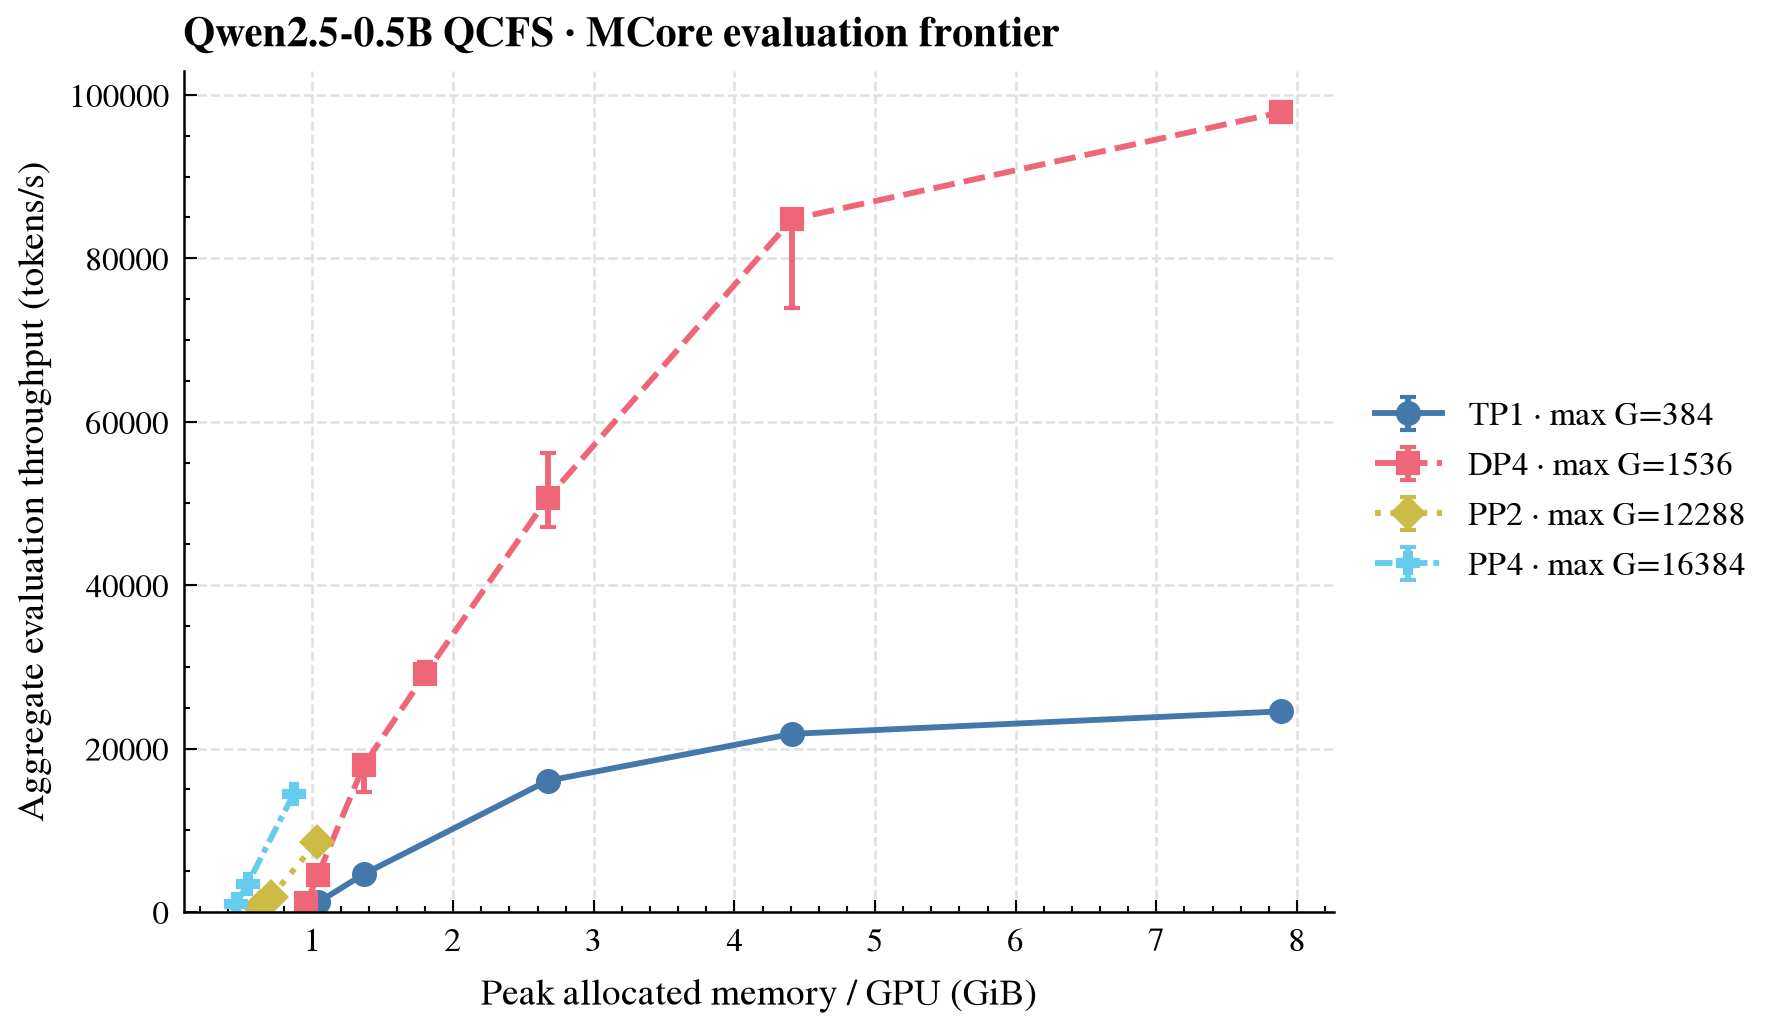
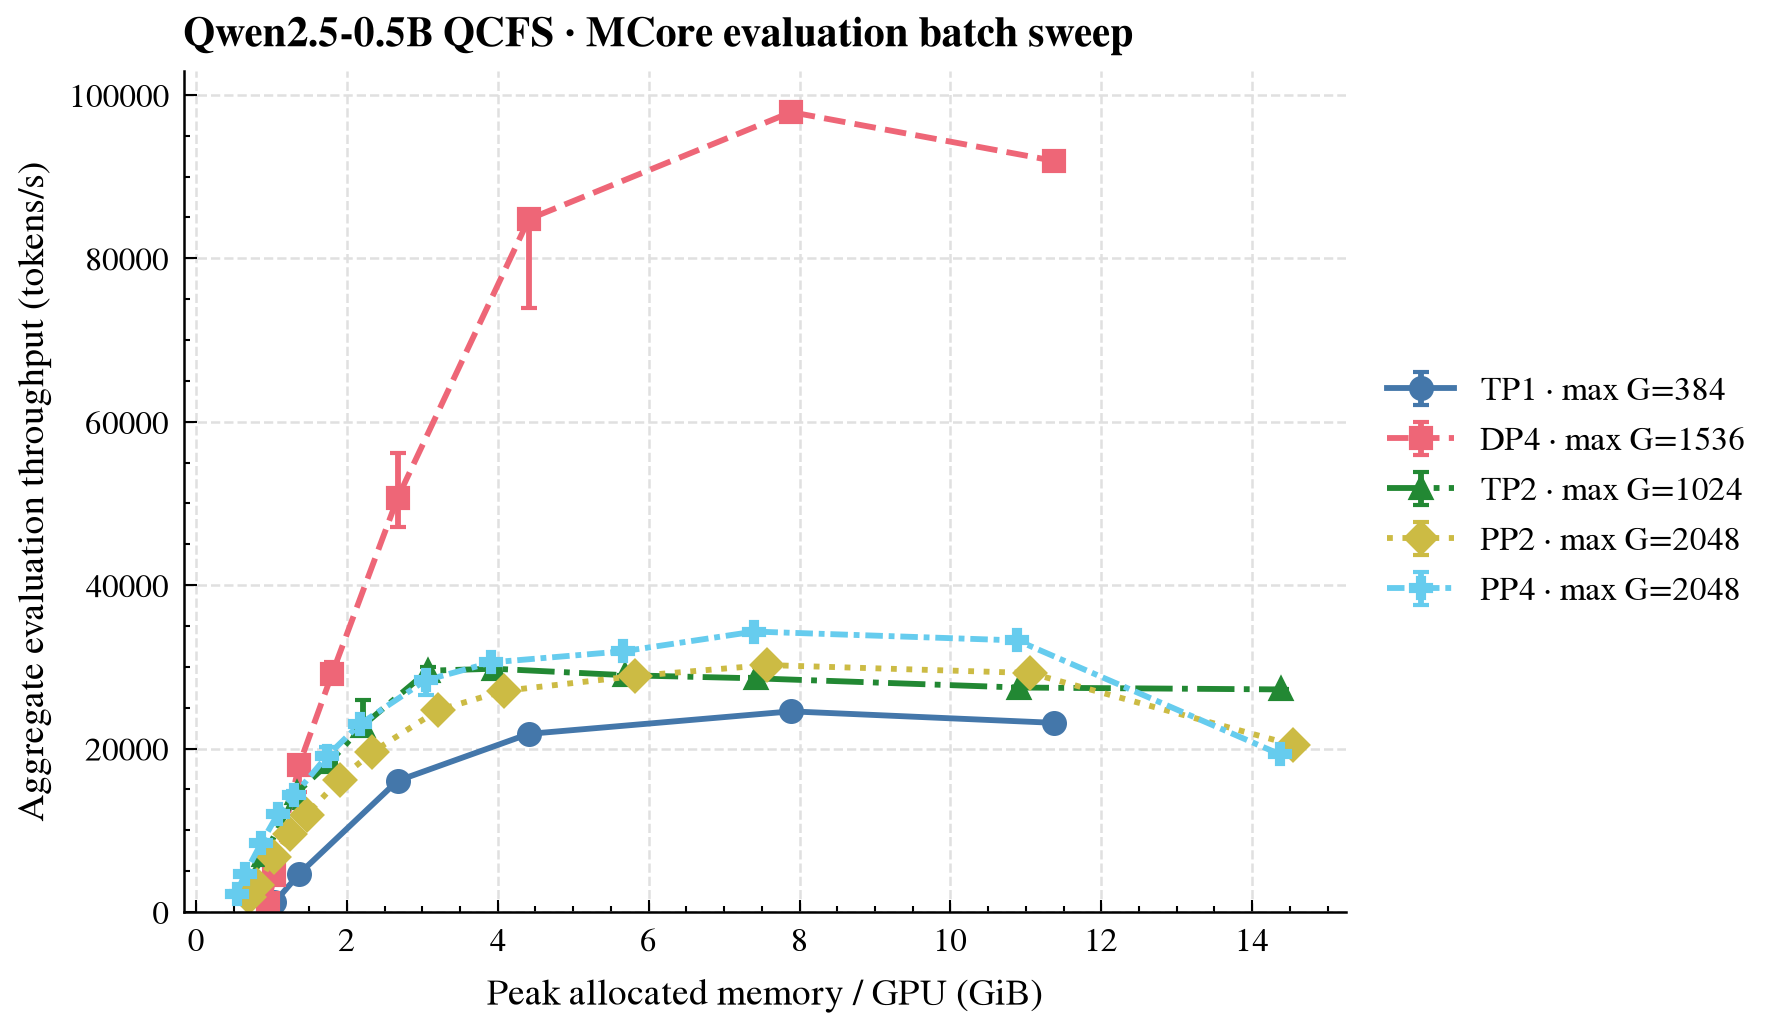
fix(distributed): correct MCore inference benchmarks

diff --git a/benchmark/plot_distributed_inference.py b/benchmark/plot_distributed_inference.py
@@ -18,7 +18,10 @@ VISION_PROBE_NAME = re.compile(
     r"(?P<topology>serial|dp4|fsdp4|tp4|pp4)_"
     r"b(?P<batch>\d+)_probe"
 )
-MCORE_NAME = re.compile(r"mcore_(?P<topology>tp1|dp4|tp2|pp2|pp4)_b(?P<batch>\d+)_r\d+")
+MCORE_NAME = re.compile(
+    r"mcore_(?P<topology>tp1|dp4|tp2|pp2|pp4)_b(?P<batch>\d+)_r\d+"
+    r"(?:_k(?P<microbatches>\d+))?"
+)
 TOPOLOGY_ORDER = ("serial", "dp4", "fsdp4", "tp4", "pp4")
 TOPOLOGY_LABELS = {
     "serial": "Single GPU",
@@ -336,16 +339,23 @@ def _load_mcore(results: Path) -> list[dict]:
         match = MCORE_NAME.fullmatch(log.stem)
         if match is None:
             continue
+        topology = match["topology"]
+        if topology in {"tp2", "pp2", "pp4"} and match["microbatches"] is None:
+            continue
         status_path = Path(f"{log}.status")
         exit_status = int(status_path.read_text().strip())
         text = log.read_text(encoding="utf-8")
         metrics = _last_json(log) if exit_status == 0 else None
-        groups[(match["topology"], int(match["batch"]))].append(
-            (exit_status, metrics, text)
-        )
+        groups[
+            (
+                topology,
+                int(match["batch"]),
+                int(match["microbatches"] or 1),
+            )
+        ].append((exit_status, metrics, text))
 
     rows = []
-    for (topology, batch_size), runs in sorted(groups.items()):
+    for (topology, batch_size, pipeline_microbatches), runs in sorted(groups.items()):
         completed = [metrics for exit_status, metrics, _ in runs if exit_status == 0]
         if len(completed) == 3:
             status = "completed"
@@ -363,12 +373,6 @@ def _load_mcore(results: Path) -> list[dict]:
         data_parallel_size = 4 if topology == "dp4" else 1
         tensor_parallel_size = 2 if topology == "tp2" else 1
         pipeline_parallel_size = {"pp2": 2, "pp4": 4}.get(topology, 1)
-        if completed:
-            pipeline_microbatches = int(completed[0]["pipeline_microbatches"])
-        elif topology in {"pp2", "pp4"} and batch_size > 16:
-            pipeline_microbatches = batch_size // 16
-        else:
-            pipeline_microbatches = 1
         row = {
             "workload": "llm_evaluation",
             "backend": "mcore",
@@ -394,7 +398,12 @@ def _load_mcore(results: Path) -> list[dict]:
                     if completed
                     else "capacity candidate; "
                 )
-                + f"MCore micro batch {batch_size // pipeline_microbatches}"
+                + f"MCore micro batch {batch_size // pipeline_microbatches}; "
+                + (
+                    "one warmup"
+                    if topology == "pp4" and batch_size == 3072
+                    else "five warmups"
+                )
             ),
         }
         if completed:
@@ -535,6 +544,7 @@ def _plot_llm(
     x_label: str,
     y_label: str,
     filename: str,
+    pareto: bool = True,
 ) -> None:
     import matplotlib.pyplot as plt
     import scienceplots  # noqa: F401
@@ -562,7 +572,11 @@ def _plot_llm(
             ]
             if not measured:
                 continue
-            points = _pareto_frontier(measured)
+            points = (
+                _pareto_frontier(measured)
+                if pareto
+                else sorted(measured, key=lambda row: row["peak_memory_gib_median"])
+            )
             color = f"C{index}"
             axis.errorbar(
                 [point["peak_memory_gib_median"] for point in points],
@@ -640,10 +654,11 @@ def main() -> None:
         mcore_rows,
         args.output,
         ("tp1", "dp4", "tp2", "pp2", "pp4"),
-        "Qwen2.5-0.5B QCFS · MCore evaluation frontier",
+        "Qwen2.5-0.5B QCFS · MCore evaluation batch sweep",
         "Peak allocated memory / GPU (GiB)",
         "Aggregate evaluation throughput (tokens/s)",
         "mcore-inference.png",
+        pareto=False,
     )
 
 

diff --git a/test/activation_based/test_distributed_checkpoint.py b/test/activation_based/test_distributed_checkpoint.py
@@ -26,6 +26,36 @@ def test_checkpoint_keeps_calibration_but_not_ephemeral_membrane():
     )
 
 
+def test_qwen_input_scale_checkpoint_sharding(monkeypatch):
+    offsets = []
+    groups = []
+
+    def make_sharded_tensors(state, prefix, axis_map, sharded_offsets, **kwargs):
+        offsets.append(sharded_offsets)
+        groups.append(kwargs)
+        return {next(iter(state)): object()}
+
+    utils = ModuleType("megatron.core.transformer.utils")
+    utils.make_sharded_tensors_for_checkpoint = make_sharded_tensors
+    monkeypatch.setitem(sys.modules, "megatron.core.transformer.utils", utils)
+    module = _InputQCFSRMSNorm(
+        config=object(),
+        hidden_size=3,
+        eps=1e-6,
+        scale=torch.ones(3),
+        time_steps=2,
+        use_snn_memopt=False,
+    )
+
+    layer_offsets = ((0, 0, 24),)
+    module.sharded_state_dict(
+        sharded_offsets=layer_offsets, metadata={"dp_cp_group": object()}
+    )
+
+    assert offsets == [layer_offsets, ()]
+    assert groups == [{}, {}]
+
+
 def test_checkpoint_file_path_notifies_every_rank(tmp_path, monkeypatch):
     core = ModuleType("megatron.core")
     core.dist_checkpointing = SimpleNamespace()

diff --git a/benchmark/snn_llm/qwen2.py b/benchmark/snn_llm/qwen2.py
@@ -148,20 +148,13 @@ class _InputQCFSRMSNorm(nn.RMSNorm):
             make_sharded_tensors_for_checkpoint,
         )
 
-        kwargs = {
-            "tp_group": getattr(self, "tp_group", getattr(self, "_tp_group", None)),
-            "dp_cp_group": metadata["dp_cp_group"],
-        }
+        # The input scale exists only on global layer 0, so it has no PP layer axis.
         return {
             **make_sharded_tensors_for_checkpoint(
-                {"weight": self.weight}, prefix, {}, sharded_offsets, **kwargs
+                {"weight": self.weight}, prefix, {}, sharded_offsets
             ),
             **make_sharded_tensors_for_checkpoint(
-                {"qcfs_scale": self.qcfs_scale},
-                prefix,
-                {},
-                sharded_offsets,
-                **kwargs,
+                {"qcfs_scale": self.qcfs_scale}, prefix, {}, ()
             ),
         }
 

diff --git a/docs/source/tutorials/en/distributed_training.rst b/docs/source/tutorials/en/distributed_training.rst
@@ -900,15 +900,17 @@ work accumulation. SEW downsampling blocks sit before stage boundaries, while
 Spikformer distributes blocks as ``0/2/2/2``. In the public configuration,
 ``pipeline_microbatches`` is the number of chunks cut from one DP rank's local
 batch. It defaults to one, requires divisibility, and gives
-``samples per chunk = batch_size / pipeline_microbatches``. This benchmark alone
-sets it to 4 for ``L < 64`` and to ``L / 16`` otherwise, keeping 16 images per
+``samples per chunk = batch_size / pipeline_microbatches``. The Vision
+benchmark alone sets it to 4 for ``L < 64`` and to ``L / 16`` otherwise,
+keeping 16 images per
 pipeline microbatch at large B. The framework does not silently apply this rule
 to user calls. The summary CSV records ``per_rank_batch_size``,
 ``global_batch_size``, ``pipeline_microbatches``, and
 ``pipeline_microbatch_size`` separately.
-MCore and SGLang frontier lines merge measurements within the same 0.05-GiB
-horizontal bin and retain its highest throughput. The CSV keeps exact,
-unquantized memory and every measurement.
+SGLang frontier lines merge measurements within the same 0.05-GiB horizontal
+bin and retain its highest throughput. MCore instead connects every successful
+batch-sweep point through OOM. The CSV keeps exact, unquantized memory and every
+measurement for both backends.
 
 .. figure:: ../../_static/tutorials/distributed/sew-resnet34-inference-tradeoff.png
     :width: 720px
@@ -988,31 +990,46 @@ training checkpoint before restoring it under TP1 x DP4. The latter reported
 validation losses 2.310132205 and 2.310132384.
 
 MCore loss/perplexity evaluation uses Qwen2.5-0.5B QCFS, BF16, ``T=2``, and
-sequence length 16. The baseline uses a fixed 128-sample dataset; the capacity
-tail sets dataset samples equal to G so padding cannot depress throughput. It
-compares TP1, DP4, TP2, PP2, and PP4. Every point restores the same sharded
-checkpoint in a fresh process, runs five untimed schedule batches, measures one
-or more complete schedules, and is repeated independently three times;
-checkpoint/model initialization is excluded. In the MCore API,
+sequence length 16. The TP1/DP4 baseline segment uses a fixed 128-sample
+dataset; the newly measured TP2/PP2/PP4 points set dataset samples equal to G so
+padding cannot depress throughput. It compares TP1, DP4, TP2, PP2, and PP4.
+Because this model has 14 attention heads, TP2 is the valid pure-TP topology
+above one on the four-GPU host; TP4 violates head divisibility.
+Every point restores the same initialized state from a sharded checkpoint in a
+fresh process, runs five untimed schedule batches, measures a complete schedule,
+and is repeated independently three times; checkpoint/model initialization is
+excluded. The new sweep explicitly sets ``NCCL_P2P_DISABLE=1``,
+``NCCL_IB_DISABLE=1``, and
+``PYTORCH_CUDA_ALLOC_CONF=expandable_segments:True``. In the MCore API,
 ``micro_batch_size`` is the chunk size, while this section's L equals
-``micro_batch_size × pipeline_microbatches``. Non-PP points use K=1. The PP
-capacity tail fixes 16 semantic samples per chunk, hence K=L/16.
+``micro_batch_size × pipeline_microbatches``. Non-PP points use K=1. Every
+PP2/PP4 point fixes K=4, so each chunk is ``L/4`` and grows with L through OOM;
+the benchmark no longer fixes the chunk size while merely lengthening its queue.
+The fine grid is ``16, 32, 64, 96, 128, 192, 256, 384, 512, 768, 1024``, followed
+by the ``2x/1.5x`` boundary search. Every three-run curve point uses five warmup
+schedules. The PP4 L=3072 debug capacity probe uses one to avoid allocator
+fragmentation from repeated warmups and serves only as capacity evidence.
 
 .. figure:: ../../_static/tutorials/distributed/mcore-inference.png
     :width: 720px
     :alt: Qwen2.5-0.5B QCFS MCore distributed evaluation throughput and per-GPU peak memory
 
-    MCore loss/perplexity evaluation Pareto frontiers: aggregate semantic-token throughput versus the busiest GPU's peak allocated memory.
+    Complete MCore loss/perplexity evaluation batch sweeps: aggregate semantic-token throughput versus the busiest GPU's peak allocated memory.
 
-At local L=16, TP1, DP4, PP2, and PP4 reach 4636.2, 17958.6, 7555.9, and
-9446.0 semantic tokens/s. PP2 and PP4 are 1.63x and 2.04x one-GPU throughput.
-At their largest points, TP1 reaches 23145.8 tokens/s and 11.37 GiB at
-L/G=384/384, while DP4 reaches 91939.8 tokens/s and 11.37 GiB/GPU at
-L/G=384/1536. PP2 reaches 8445.4 tokens/s and 1.03 GiB/GPU at 12288/12288;
-PP4 reaches 14392.3 tokens/s and 0.87 GiB/GPU at 16384/16384. PP first exceeds
-one GPU at the same L as pipeline microbatches fill the stages, then plateaus on
-stage communication and primarily provides a memory-capacity advantage. TP2 remained in sharded
-checkpoint restore for 120 seconds and is recorded as timeout, not plotted.
+At small-batch L=16, TP1, TP2, PP2, and PP4 reach 4636.2, 3611.2, 1823.5, and
+2203.6 semantic tokens/s. With K fixed at 4, each PP chunk contains only four
+samples, so kernel and schedule overheads are not yet amortized. By L=384, TP1,
+TP2, PP2, and PP4 reach 23145.8, 28975.2, 24707.7, and 28348.2 tokens/s; all
+three model-parallel topologies exceed one GPU at the same L.
+
+The best TP1, TP2, PP2, and PP4 points reach 24549.7, 29767.5, 30217.9, and
+34317.2 tokens/s. The latter three are 1.21x, 1.23x, and 1.40x the best one-GPU
+throughput. TP2 peaks at L=256 and 3.95 GiB/GPU; PP2 and PP4 peak at L=1024
+and 7.57/7.40 GiB/GPU. Both three-run PP curves extend through L=2048 and about
+14.5 GiB/GPU. Their capacity-tail drop repeats across all three runs and is the
+measured cost of growing each chunk to 512 samples. A single debug capacity
+probe completes PP4 L=3072 at 21.35 GiB/GPU, but the non-debug formal run times
+out, so that point is excluded from the curve; L=4096 is a confirmed CUDA OOM.
 
 .. list-table:: MCore capacity tail (largest completion → first failure)
     :header-rows: 1
@@ -1030,17 +1047,17 @@ checkpoint restore for 120 seconds and is recorded as timeout, not plotted.
       - 512/2048
       - CUDA OOM
     * - TP2
-      - none
-      - 1/1
-      - checkpoint restore timeout
+      - 1024/1024
+      - 1536/1536
+      - CUDA OOM
     * - PP2
-      - 12288/12288
-      - 18432/18432
-      - runtime timeout
+      - 2048/2048
+      - 2304/2304
+      - CUDA OOM
     * - PP4
-      - 16384/16384
-      - 24576/24576
-      - runtime timeout
+      - 2048/2048
+      - 3072/3072
+      - one debug probe completed but the formal run timed out; 4096 CUDA OOM
 
 LLM generation used Qwen2.5-0.5B QCFS, BF16, ``T=2``, 8-token prompts, and
 8-token outputs. SGLang compares TP1, DP2, DP4, TP2, PP2, PP4, and DP2 x TP2.

diff --git a/docs/source/tutorials/cn/distributed_training.rst b/docs/source/tutorials/cn/distributed_training.rst
@@ -821,14 +821,15 @@ global batch；始终有 ``G = L × DP``，TP、PP、CP 和 SNN 时间步 ``T`` 
 跨 batch 堆积；SEW 下采样 block 被放到 stage 边界前，Spikformer 的 blocks 按
 ``0/2/2/2`` 分配。公共配置中的 ``pipeline_microbatches`` 表示每个 DP rank 的
 本地 batch 被切成的块数，默认 1，并要求 ``batch_size`` 能被它整除；每块样本数为
-``batch_size / pipeline_microbatches``。本基准单独使用
+``batch_size / pipeline_microbatches``。Vision 基准单独使用
 ``pipeline_microbatches = 4``（``L < 64``），否则使用 ``L / 16``，即在大
 batch 时保持 16 images/pipeline microbatch。该规则只属于实验 protocol，框架不会
 在用户调用中自动改写这个参数。汇总 CSV 分别记录 ``per_rank_batch_size``、
 ``global_batch_size``、``pipeline_microbatches`` 和
 ``pipeline_microbatch_size``。
-MCore/SGLang 的前沿连线按 0.05 GiB 横轴分辨率合并同一显存 bin，只保留该 bin
-最高吞吐；CSV 仍保留未量化的精确显存和全部测量点。
+SGLang 的前沿连线按 0.05 GiB 横轴分辨率合并同一显存 bin，只保留该 bin
+最高吞吐；MCore 则连接直到 OOM 的全部成功 batch sweep 点。CSV 对两者都保留
+未量化的精确显存和全部测量点。
 
 .. figure:: ../../_static/tutorials/distributed/sew-resnet34-inference-tradeoff.png
     :width: 720px
@@ -904,28 +905,40 @@ Vision 正确性测试还覆盖 FSDP2、PP2，以及 TP2 × PP2 训练 checkpoin
 TP1 × DP4 上恢复；后者的 validation loss 为 2.310132205 和 2.310132384。
 
 MCore loss/perplexity 评测使用 Qwen2.5-0.5B QCFS、BF16、``T=2`` 和序列长度16。
-基线段使用固定 128-sample 数据集；容量尾部令数据集样本数等于 G，避免 padding
-污染吞吐。拓扑为 TP1、DP4、TP2、PP2 和 PP4。每个点从新进程恢复同一 sharded
-checkpoint，先执行 5 个不计时 schedule batch，再计时 1 个或多个完整 schedule，
-并独立重复三次；checkpoint/model 初始化不计时。MCore API 中
+TP1/DP4 的基线段使用固定 128-sample 数据集；新测的 TP2/PP2/PP4 点令数据集
+样本数等于 G，避免 padding 污染吞吐。拓扑为 TP1、DP4、TP2、
+PP2 和 PP4；该模型有 14 个 attention heads，故四卡节点上大于 1 的合法纯 TP
+拓扑为 TP2，TP4 不满足 head 整除约束。每个点从新进程恢复同一初始化状态的
+sharded checkpoint，先执行 5 个不计时 schedule batch，再计时完整 schedule，
+并独立重复三次；checkpoint/model
+初始化不计时。新测 sweep 显式设置 ``NCCL_P2P_DISABLE=1``、``NCCL_IB_DISABLE=1``
+和 ``PYTORCH_CUDA_ALLOC_CONF=expandable_segments:True``。MCore API 中
 ``micro_batch_size`` 表示每块大小，而本节的 L 是
-``micro_batch_size × pipeline_microbatches``。非 PP 点 K=1；PP 容量尾部固定
-每块16个语义样本，即 K=L/16。
+``micro_batch_size × pipeline_microbatches``。非 PP 点 K=1；PP2/PP4 的所有点
+固定 K=4，因此每块为 ``L/4``，会随 L 一起增长到 OOM，而不是固定每块大小后只增加
+排队块数。细网格为 ``16, 32, 64, 96, 128, 192, 256, 384, 512, 768, 1024``，
+再按 ``2x/1.5x`` 规则搜索各拓扑边界。三次正式曲线点均预热 5 个 schedule；
+PP4 的 L=3072 debug 容量 probe 为避免重复预热造成 allocator 碎片，只预热 1 个，
+并仅作为容量证据。
 
 .. figure:: ../../_static/tutorials/distributed/mcore-inference.png
     :width: 720px
     :alt: Qwen2.5-0.5B QCFS 的 MCore 分布式评测吞吐与单卡峰值显存
 
-    MCore loss/perplexity 评测的 Pareto 前沿：总 semantic-token 吞吐与最繁忙 GPU 的 peak allocated memory。
+    MCore loss/perplexity 评测的完整 batch sweep：总 semantic-token 吞吐与最繁忙 GPU 的 peak allocated memory。
 
-在本地 L=16 时，TP1、DP4、PP2 和 PP4 分别达到 4636.2、17958.6、7555.9
-和 9446.0 semantic tokens/s；PP2/PP4 是单卡的 1.63/2.04 倍。最大点上，TP1
-在 L/G=384/384 达到 23145.8 tokens/s、11.37 GiB，DP4 在 L/G=384/1536
-达到 91939.8 tokens/s、11.37 GiB/卡。PP2 在 L/G=12288/12288 为
-8445.4 tokens/s、1.03 GiB/卡；PP4 在 16384/16384 为 14392.3 tokens/s、
-0.87 GiB/卡。PP 随 pipeline 填满先超过相同 L 的单卡，随后受 stage 通信限制
-进入平台；它的主要收益转为显存容量。
-TP2 在 120 秒内停留于 sharded checkpoint restore，记为 timeout，不进入曲线。
+在小 batch 的 L=16，TP1、TP2、PP2 和 PP4 分别为 4636.2、3611.2、1823.5
+和 2203.6 semantic tokens/s；固定 K=4 后 PP 每块仅有 4 个样本，kernel 与 schedule
+开销尚未摊薄。到 L=384，TP1、TP2、PP2 和 PP4 分别达到 23145.8、28975.2、
+24707.7 和 28348.2 tokens/s，三种模型并行拓扑均已超过同 L 单卡。
+
+TP1、TP2、PP2 和 PP4 的最佳点分别为 24549.7、29767.5、30217.9 和
+34317.2 tokens/s；后三者为单卡最佳点的 1.21、1.23 和 1.40 倍。TP2 最佳点在
+L=256、3.95 GiB/卡；PP2/PP4 最佳点都在 L=1024，分别为 7.57/7.40 GiB/卡。
+PP2/PP4 的三次正式曲线均延伸到 L=2048、约 14.5 GiB/卡，容量尾部的吞吐下降在
+三次运行中重复出现，是每块增至 512 后的真实代价。PP4 的 L=3072 debug 容量
+probe 单次通过（21.35 GiB/卡），但无 debug 的正式运行 timeout，因此不进入曲线；
+L=4096 明确 CUDA OOM。
 
 .. list-table:: MCore 容量尾部（最大完成点 → 首个失败点）
     :header-rows: 1
@@ -943,17 +956,17 @@ TP2 在 120 秒内停留于 sharded checkpoint restore，记为 timeout，不进
       - 512/2048
       - CUDA OOM
     * - TP2
-      - 无
-      - 1/1
-      - checkpoint restore timeout
+      - 1024/1024
+      - 1536/1536
+      - CUDA OOM
     * - PP2
-      - 12288/12288
-      - 18432/18432
-      - runtime timeout
+      - 2048/2048
+      - 2304/2304
+      - CUDA OOM
     * - PP4
-      - 16384/16384
-      - 24576/24576
-      - runtime timeout
+      - 2048/2048
+      - 3072/3072
+      - 单次 debug probe 通过但正式运行 timeout；4096 CUDA OOM
 
 LLM 生成使用 Qwen2.5-0.5B QCFS、BF16、``T=2``、8-token prompt 和 8-token
 输出。SGLang 比较 TP1、DP2、DP4、TP2、PP2、PP4 和 DP2 × TP2；prompt

diff --git a/docs/source/changelog.rst b/docs/source/changelog.rst
@@ -508,6 +508,8 @@ Module: ``spikingjelly.activation_based.distributed``.
   while keeping complete SNN time windows ``T`` rank-local.
 - Added TP/PP model execution with optimizer-boundary checkpoint loading,
   functional per-call SNN state, and MCore static KV-cache prefill/decode.
+- Corrected Qwen2 input-calibration checkpoint metadata so TP ranks restore the
+  replicated scale without duplicate main shards.
 - Added standalone Vision evaluation and ordered logits-only HDF5 prediction
   with replicated DP, FSDP2, TP, and PP. ``EvaluationConfig`` requires targets and
   returns aggregate metrics; ``PredictionConfig`` ignores targets and prediction

diff --git a/CHANGELOG.md b/CHANGELOG.md
@@ -457,6 +457,8 @@ Module: `spikingjelly.activation_based.distributed`.
   while keeping complete SNN time windows `T` rank-local.
 - Added TP/PP model execution with optimizer-boundary checkpoint loading,
   functional per-call SNN state, and MCore static KV-cache prefill/decode.
+- Corrected Qwen2 input-calibration checkpoint metadata so TP ranks restore the
+  replicated scale without duplicate main shards.
 - Added standalone Vision evaluation and ordered logits-only HDF5 prediction
   with replicated DP, FSDP2, TP, and PP. `EvaluationConfig` requires targets and
   returns aggregate metrics; `PredictionConfig` ignores targets and prediction
